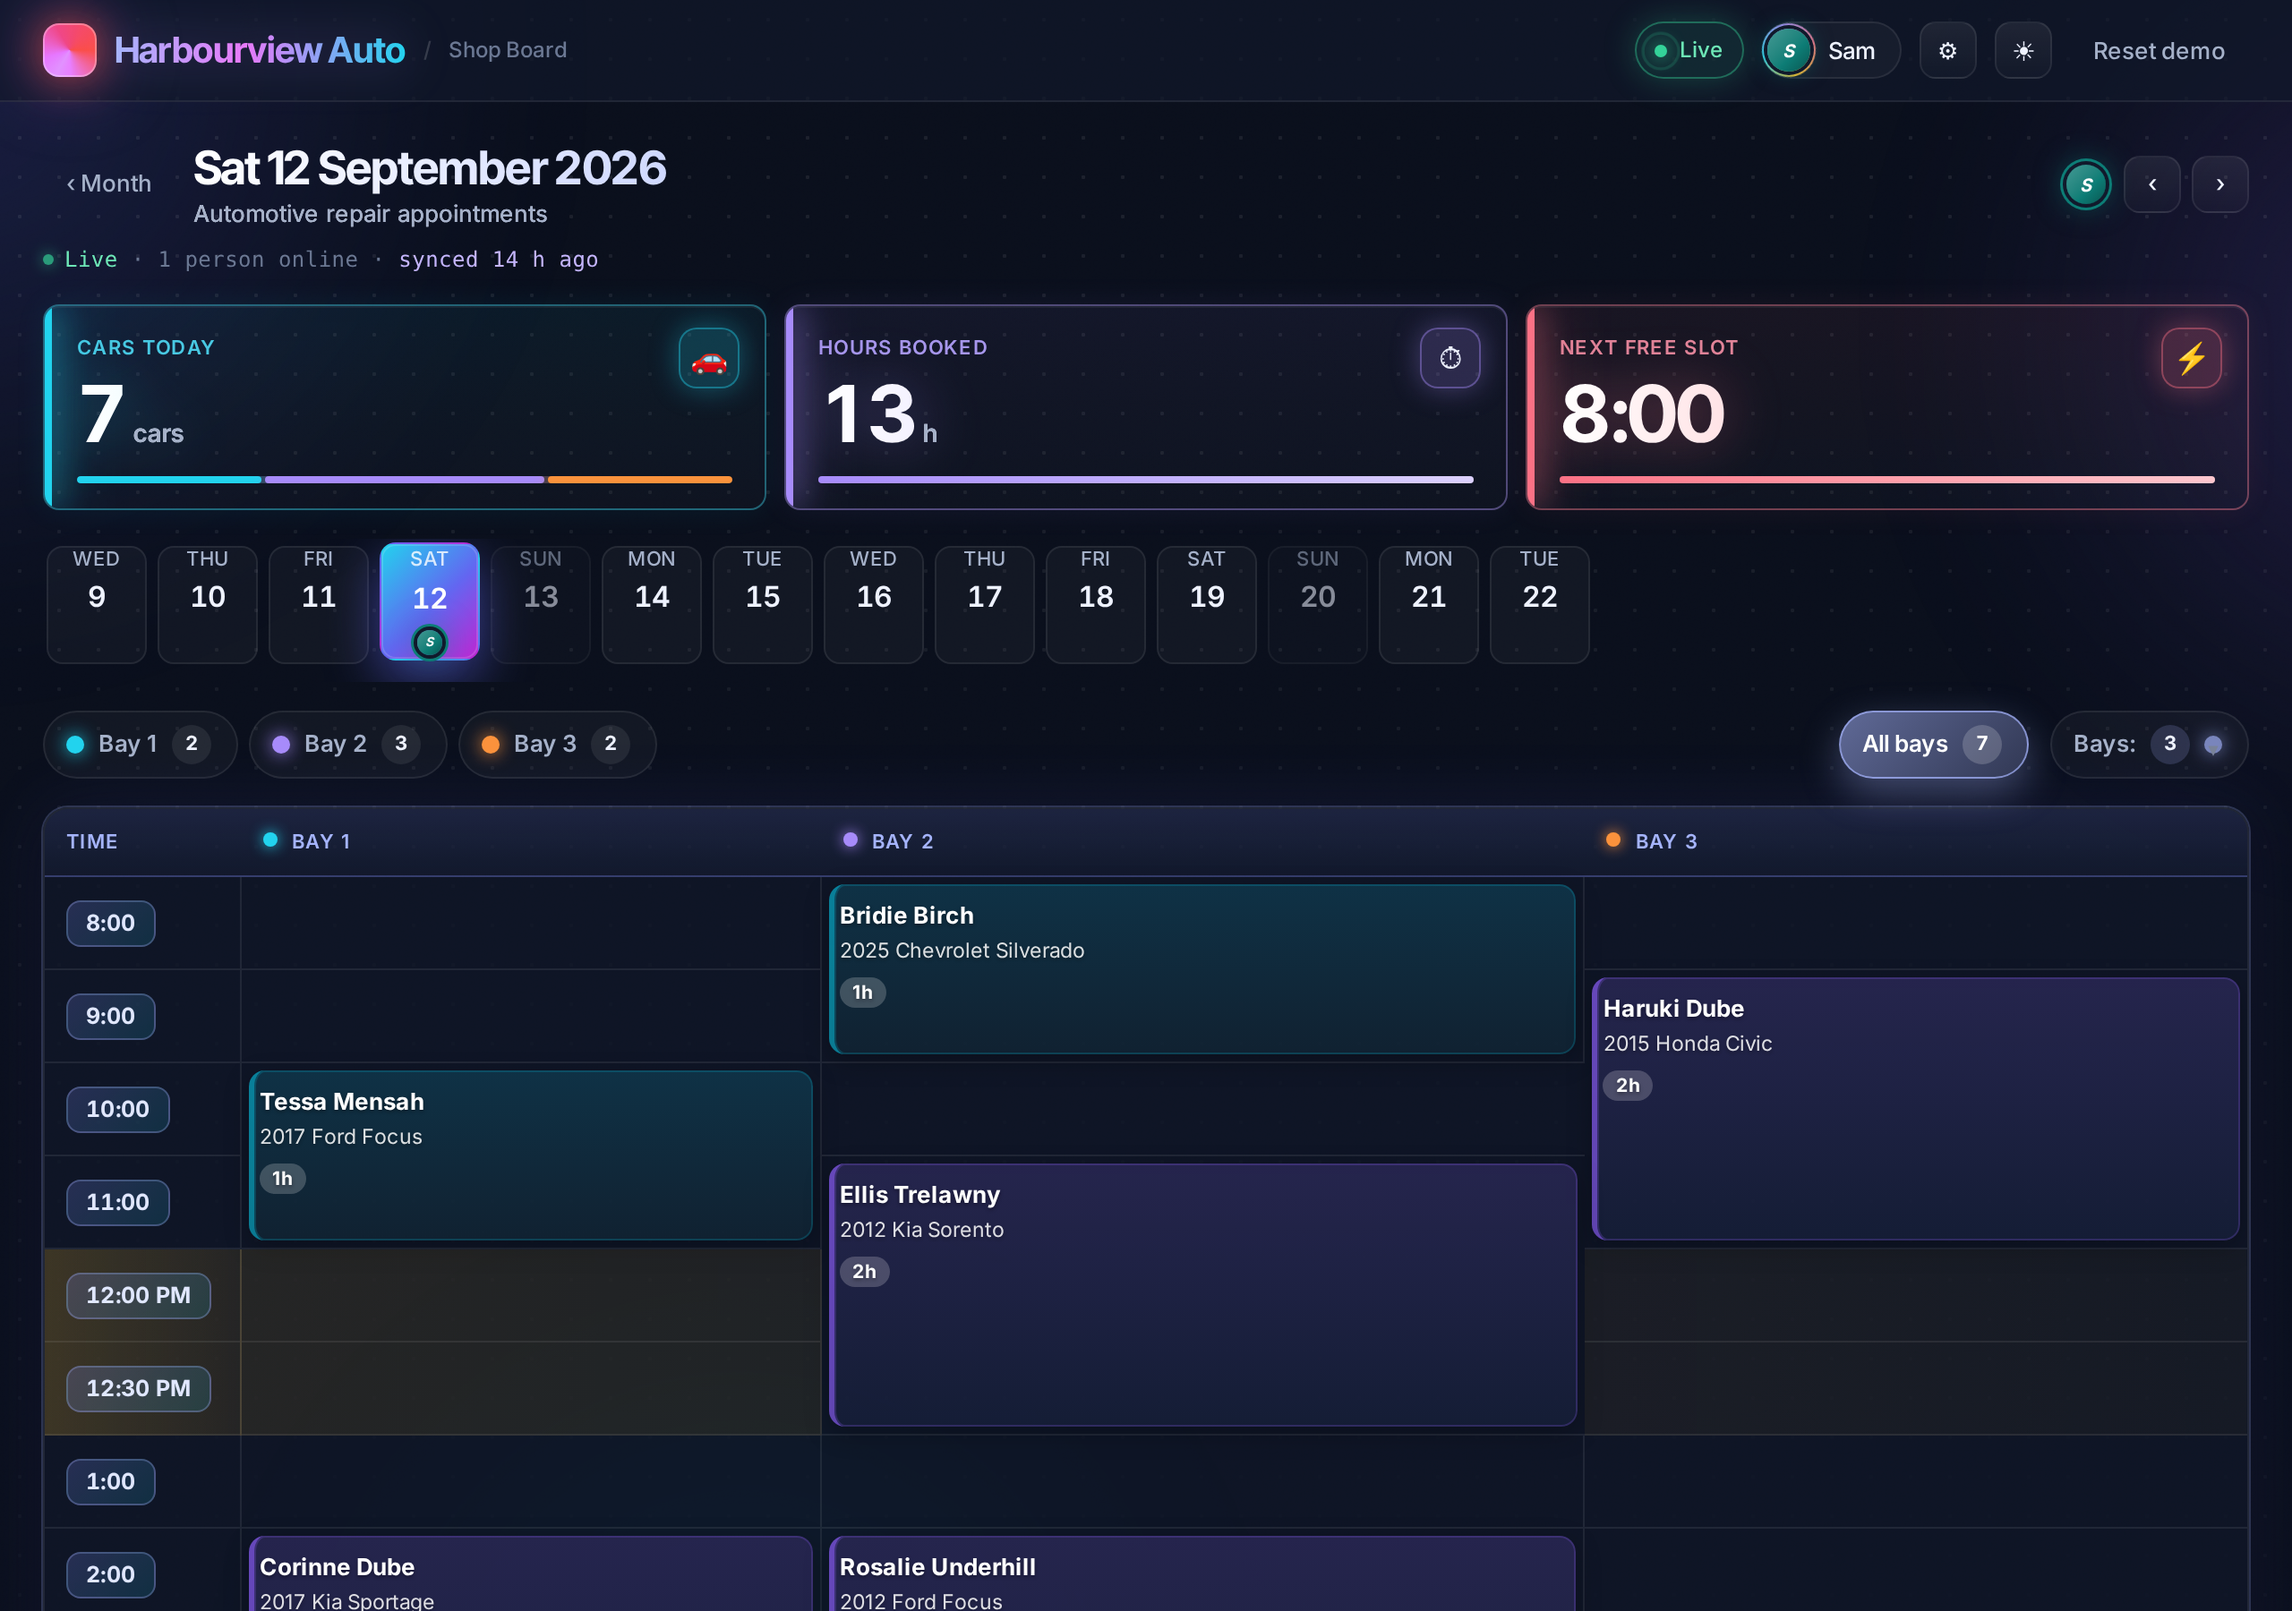
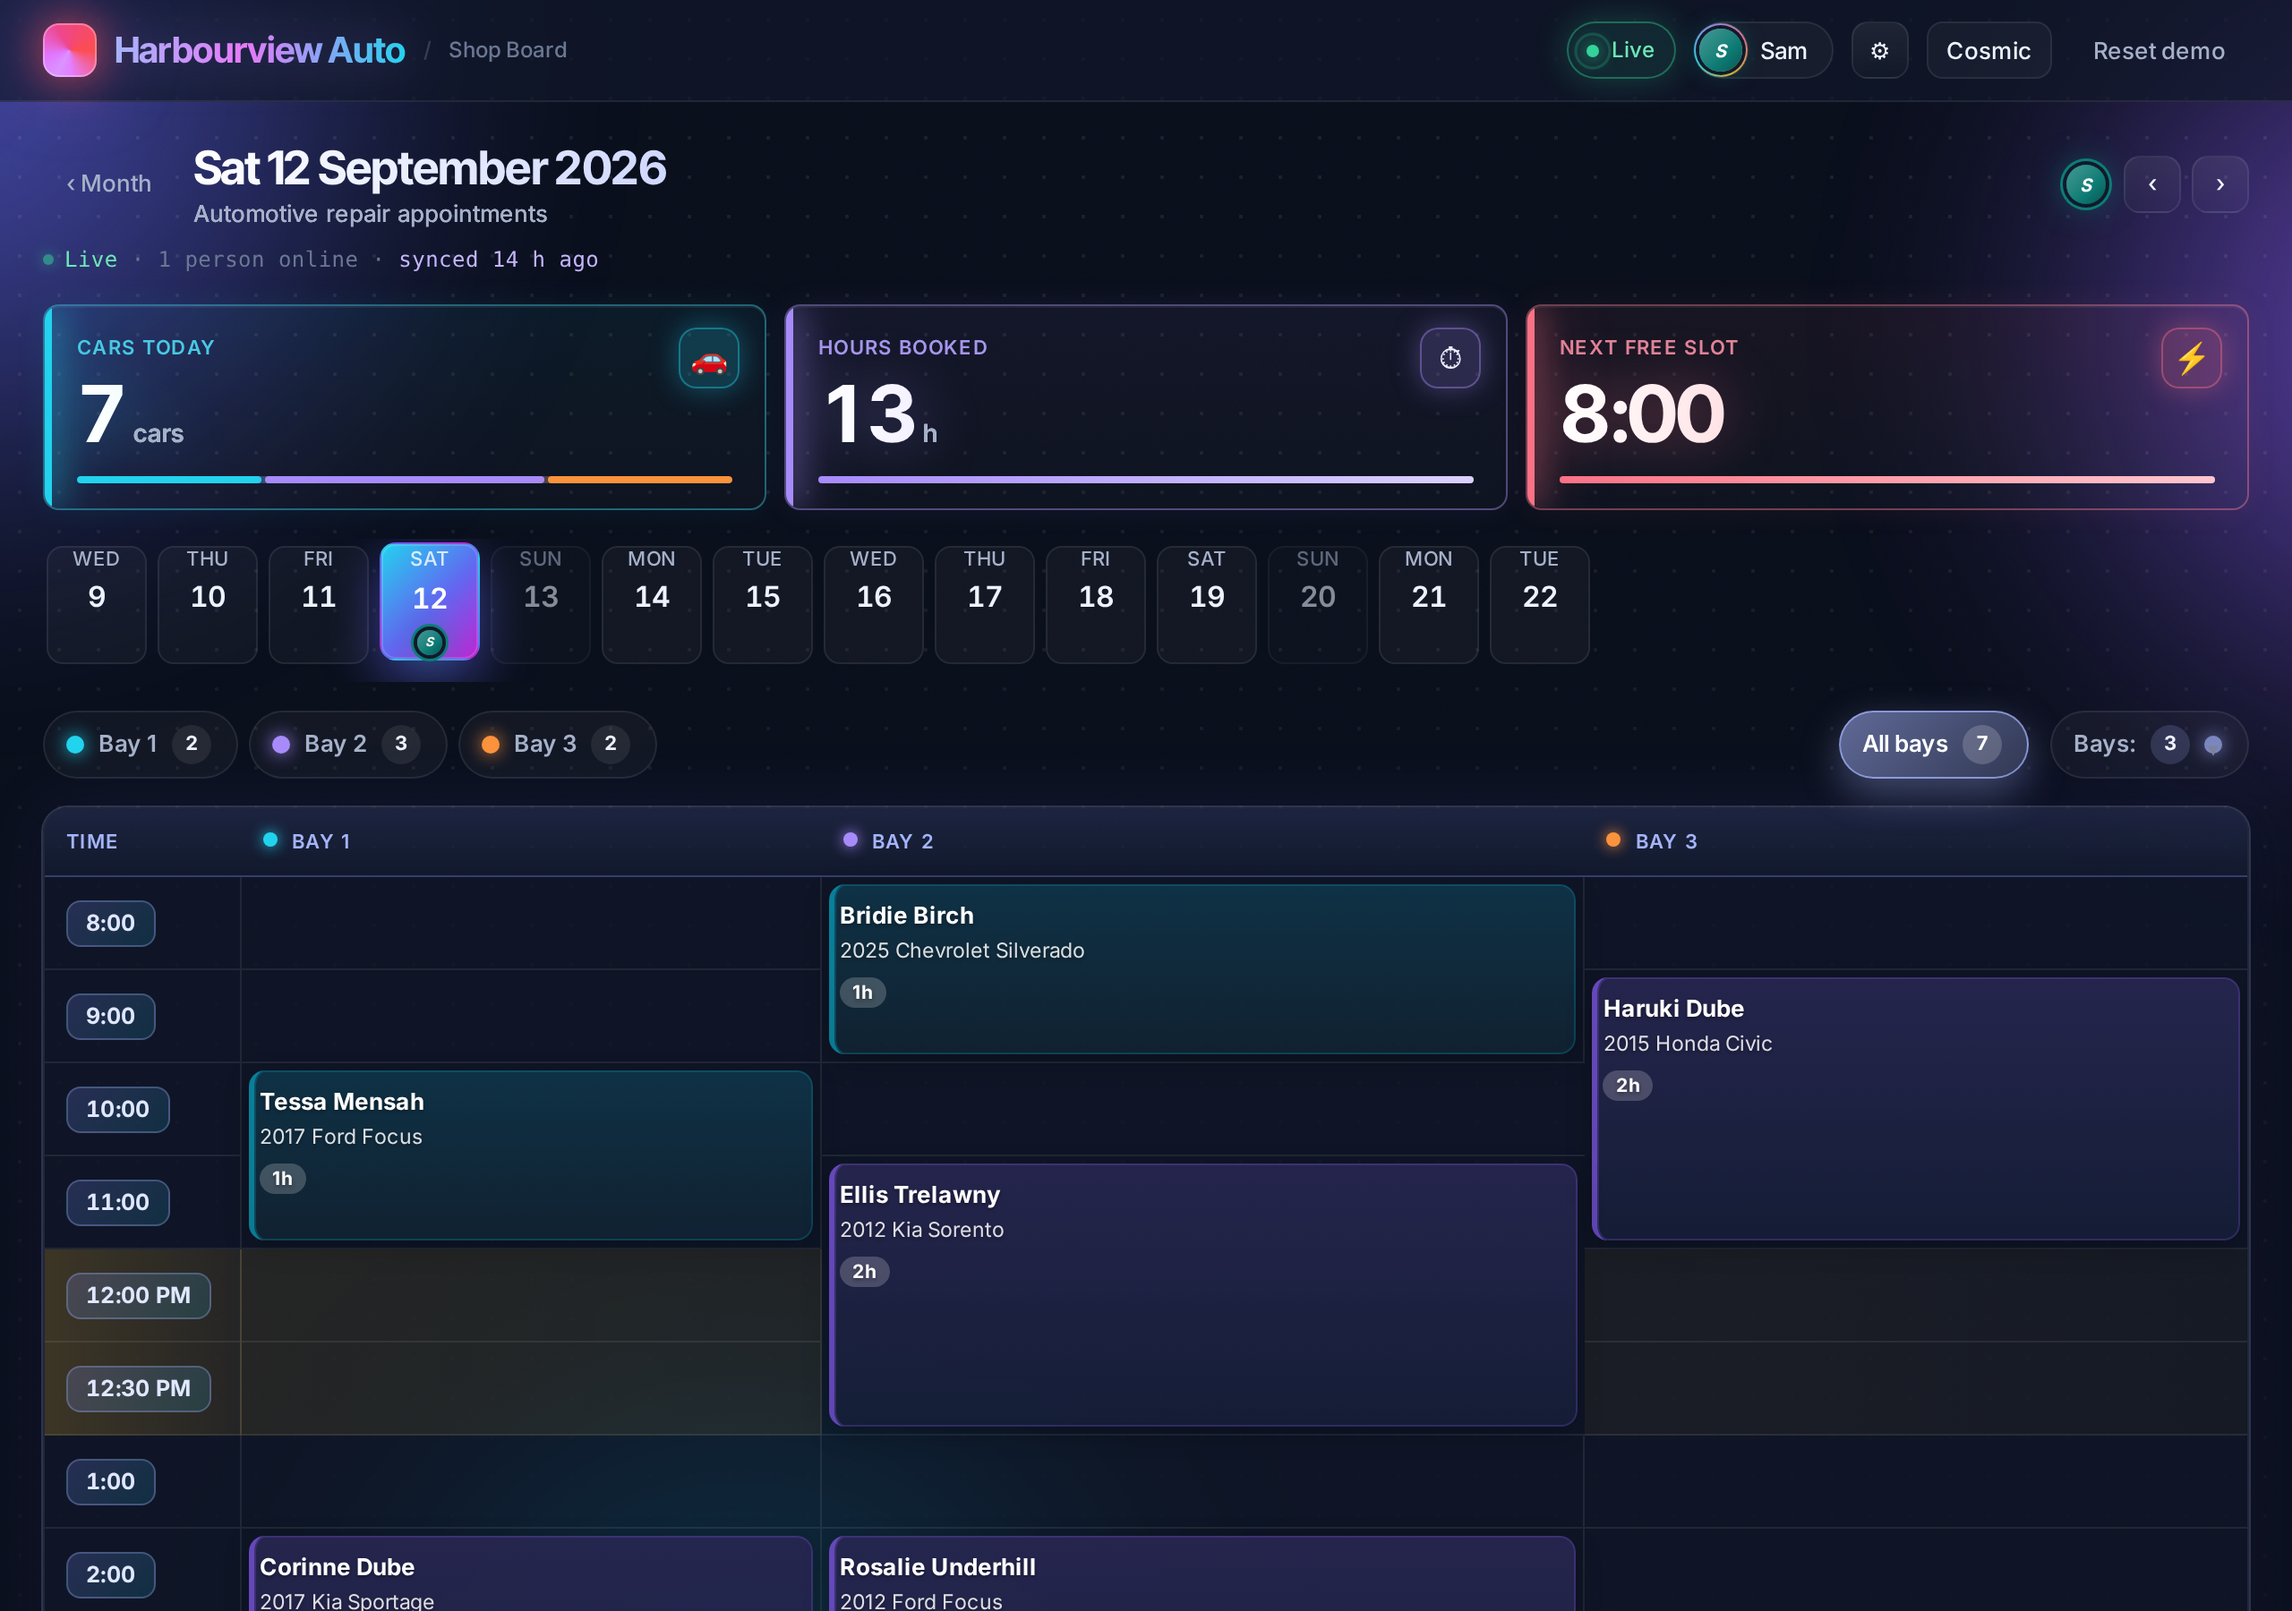
Profile: Shop Board Cosmic overview, themes

diff --git a/README.md b/README.md
@@ -20,7 +20,7 @@ I build and ship production software with AI coding agents as my primary toolset
 | **[receipts.alexjpower74.workers.dev](https://receipts.alexjpower74.workers.dev)** | Receipts, above. React + Cloudflare Worker + D1, Claude tool use, Playwright on Chromium and WebKit. [Source](https://github.com/alexjpower74-create/receipts). |
 | **[binder-app.alexjpower74.workers.dev](https://binder-app.alexjpower74.workers.dev/)** | Binder: ask your documents; every sentence of the answer cites the page and a verbatim quote, with an eval set that plants a lie and must fail, and an MCP endpoint. [Source](https://github.com/alexjpower74-create/binder). |
 | **[next-up-app.alexjpower74.workers.dev](https://next-up-app.alexjpower74.workers.dev/?p=sample-barber)** | Next Up: a walk-in queue for any waiting room, with a wall display at `/wall/`. Cloudflare Worker + D1, Playwright suite. [Source](https://github.com/alexjpower74-create/next-up). |
-| **[shop-board.alexjpower74.workers.dev](https://shop-board.alexjpower74.workers.dev)** | Shop Board: a real-time multi-bay appointment board. Durable Object sync, presence, drag and drop with real pointer input, jobs that block their duration per bay, offline queue, PWA. 245 unit tests, 128 browser tests, and an adversarial suite that found six real bugs before release. [Source](https://github.com/alexjpower74-create/shop-board). |
+| **[shop-board.alexjpower74.workers.dev](https://shop-board.alexjpower74.workers.dev)** | Shop Board: a real-time multi-bay appointment board. Durable Object sync, presence, drag and drop with real pointer input, jobs that block their duration per bay, three themes (Cosmic, Classic, Dark), offline queue, PWA. 245 unit tests, 128 browser tests, and an adversarial suite that found six real bugs before release. [Source](https://github.com/alexjpower74-create/shop-board). |
 | **[apcosoftwaretools.ca](https://apcosoftwaretools.ca)** | Company site. Vite + React, GSAP/Lenis motion, one R3F background, 116-test Playwright suite across Chromium and WebKit. |
 | **[apco-recycling.pages.dev](https://apco-recycling.pages.dev)** | APCO Recycling: the depot's site as one WebGL world. The page orbits a branded aluminium can and descends a spine of crushed cans, each section docked onto a glass panel in the scene. R3F, GSAP, Lenis, Blender-built geometry, twelve Playwright harnesses driven with real wheel input across Chromium, WebKit and Firefox, a11y-clean, no-WebGL fallback. Built by four Claude Code sessions in worktrees. |
 | **[apco-app.pages.dev](https://apco-app.pages.dev)** | Customer app for a recycling depot, installed as a PWA. Real people, real money flow (e-Transfer requests), Worker-backed email. |
